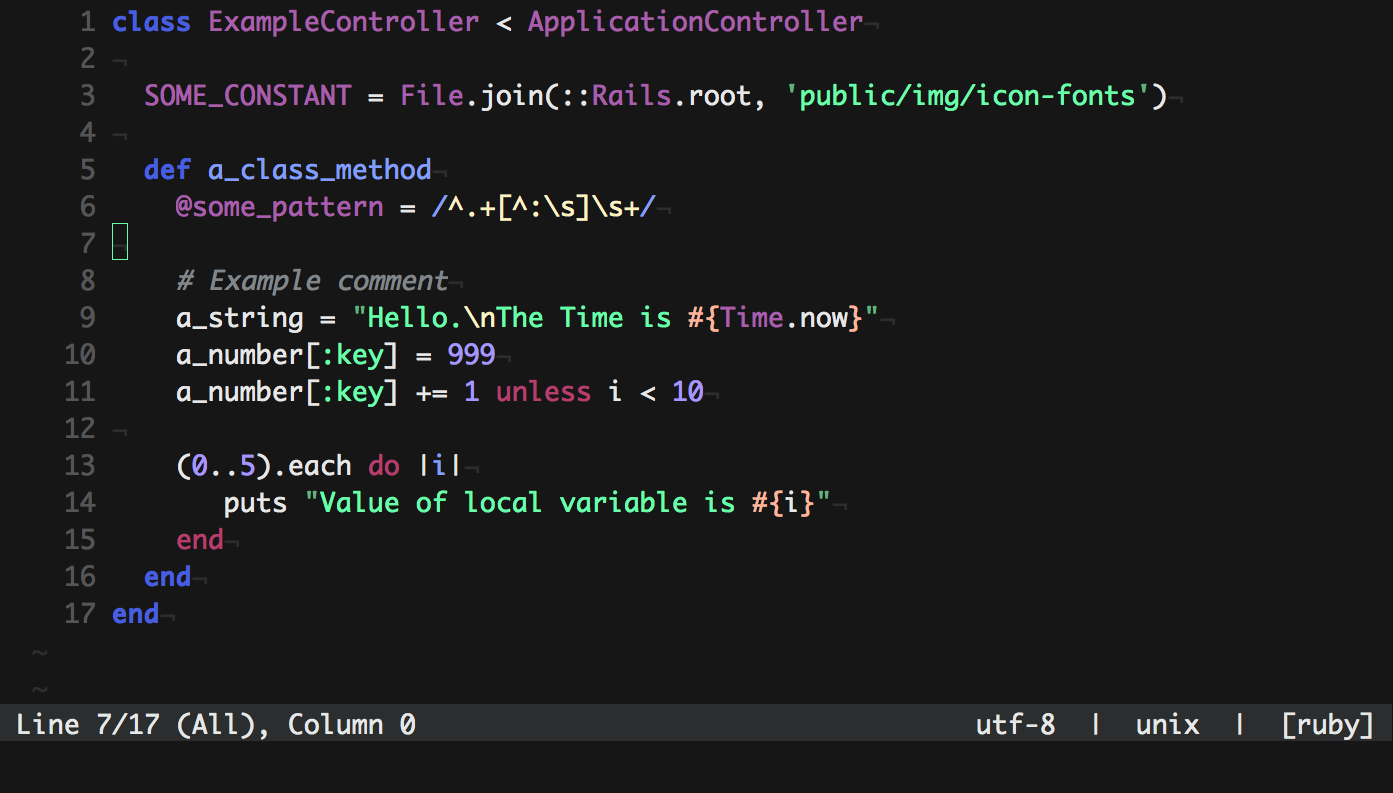
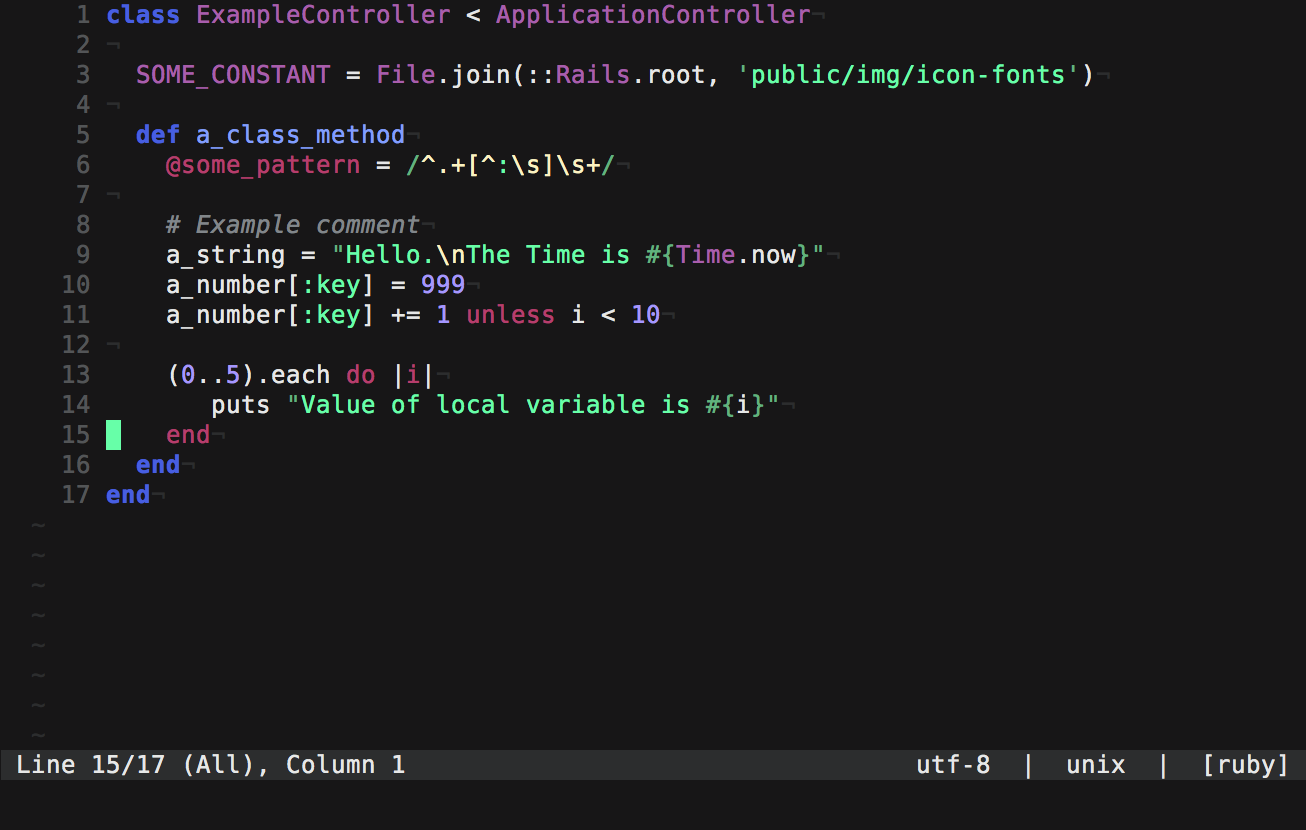
Update README to include light theme

diff --git a/README.md b/README.md
@@ -4,7 +4,11 @@ A dark color scheme for VIM with bright and classy colors.
 
 Please use some plugin like [CSApprox](http://www.vim.org/scripts/script.php?script_id=2390) to make this work smoothly in a 256 colors or even 88 colors terminal.
 
-![Screenshot with Ruby code](https://raw.github.com/cseelus/vim-colors-lanai/master/vim-colors-lanai_preview.png)
+![Screenshot with Ruby code and dark background](https://raw.github.com/cseelus/vim-colors-lanai/master/vim-colors-lanai_preview.png)
+Screenshot with Ruby code and dark background
+
+![Screenshot with Ruby code and light background](https://raw.github.com/cseelus/vim-colors-lanai/master/vim-colors-lanai_light_preview.png)
+Screenshot with Ruby code and light background
 
 ## Adjusted highlightings for these plugins
 
